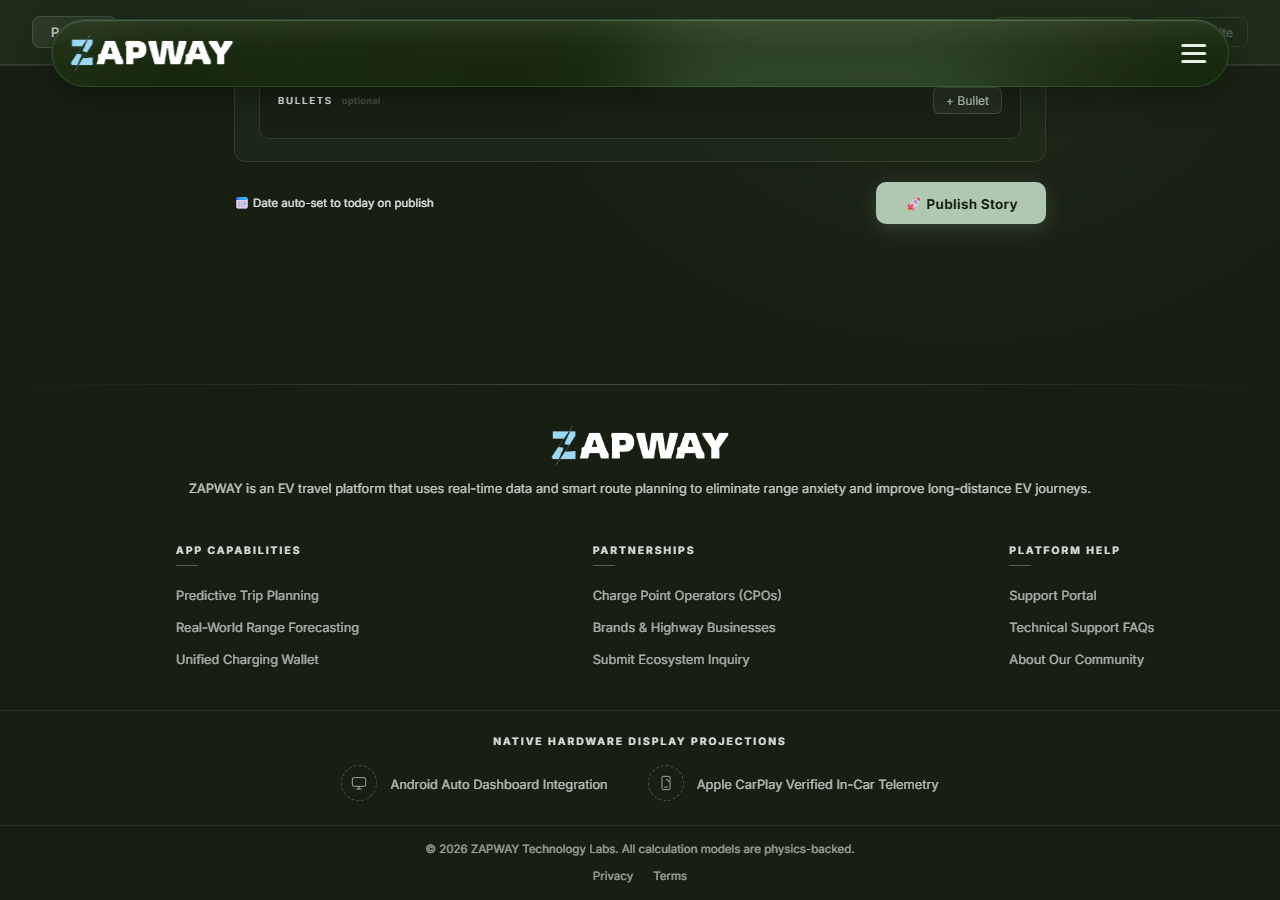
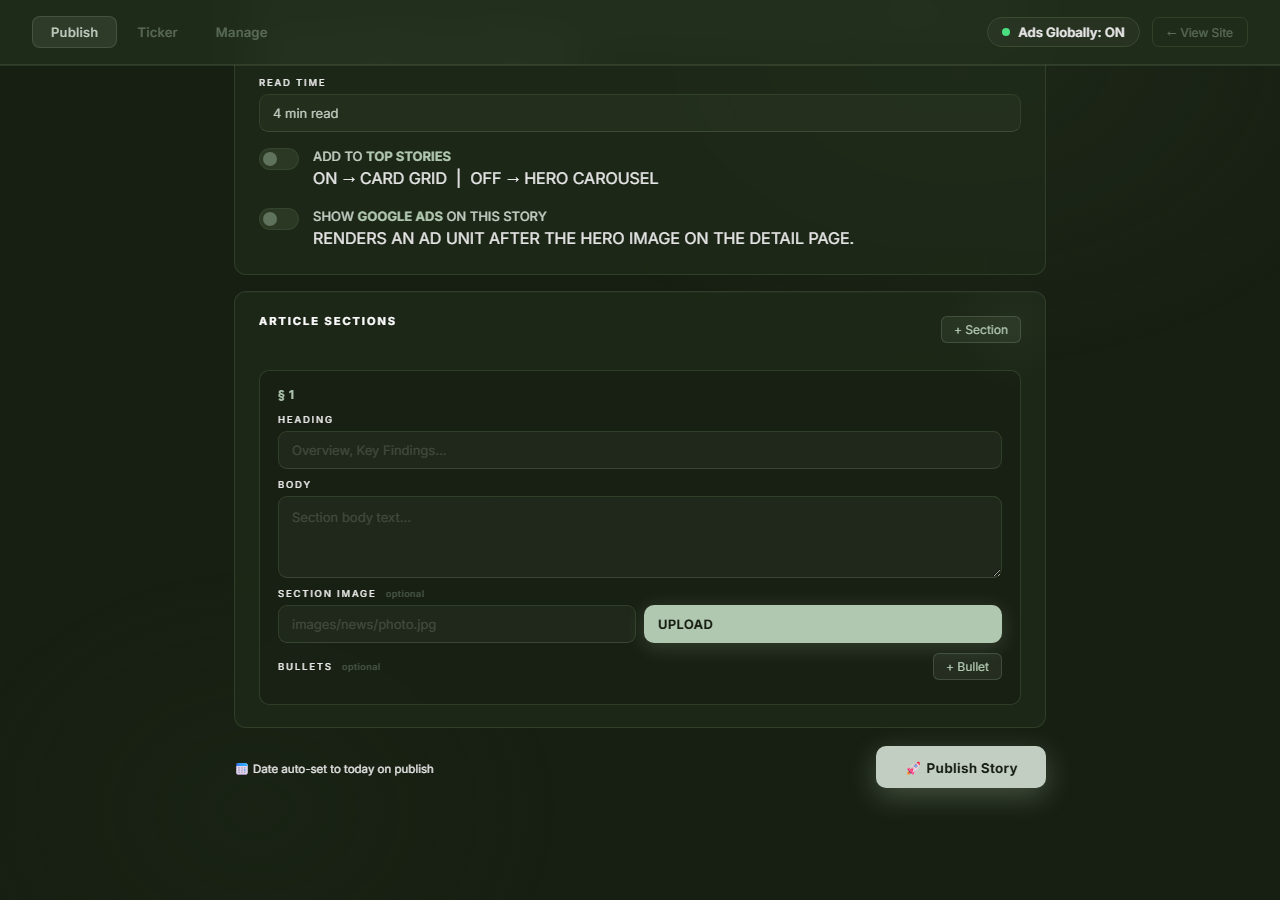
feat: add delete button for each media asset in both read and edit modes to enable quick asset cleanup

diff --git a/frontend/src/pages/ArticleView.jsx b/frontend/src/pages/ArticleView.jsx
@@ -677,17 +677,26 @@ export default function ArticleView() {
                 {images.map((img, i) => (
                   <div key={i} style={{ position: 'relative' }}>
                     <img src={normalizeUrl(img)} style={{ width: '100%', borderRadius: '8px', border: '1px solid var(--color-border)' }} />
-                    {isEditMode && (
-                      <button 
-                        style={{ position: 'absolute', top: '8px', right: '8px', background: 'var(--c-magenta)', border: 'none', borderRadius: '50%', width: '24px', height: '24px', color: '#fff', cursor: 'pointer' }}
-                        onClick={() => {
+                    <button 
+                      style={{ position: 'absolute', top: '8px', right: '8px', background: 'var(--c-magenta)', border: 'none', borderRadius: '50%', width: '24px', height: '24px', color: '#fff', cursor: 'pointer', display: 'flex', alignItems: 'center', justifyItems: 'center', justifyContent: 'center', boxShadow: '0 2px 6px rgba(0,0,0,0.5)', transition: 'all 0.2s' }}
+                      title="Delete this image"
+                      onClick={() => {
+                        if (confirm('Delete this image from media assets?')) {
                           const newImages = images.filter((_, idx) => idx !== i)
-                          handleInputChange('images', JSON.stringify(newImages))
-                        }}
-                      >
-                        <X size={14} />
-                      </button>
-                    )}
+                          if (isEditMode) {
+                            handleInputChange('images', JSON.stringify(newImages))
+                          } else {
+                            // Update immediately in db
+                            const updatedStory = { ...story, images: newImages }
+                            queryClient.setQueryData(['article', id], updatedStory)
+                            setEditedStory(updatedStory)
+                            saveMutation.mutate({ ...story, images: JSON.stringify(newImages) })
+                          }
+                        }
+                      }}
+                    >
+                      <X size={14} />
+                    </button>
                   </div>
                 ))}
               </div>